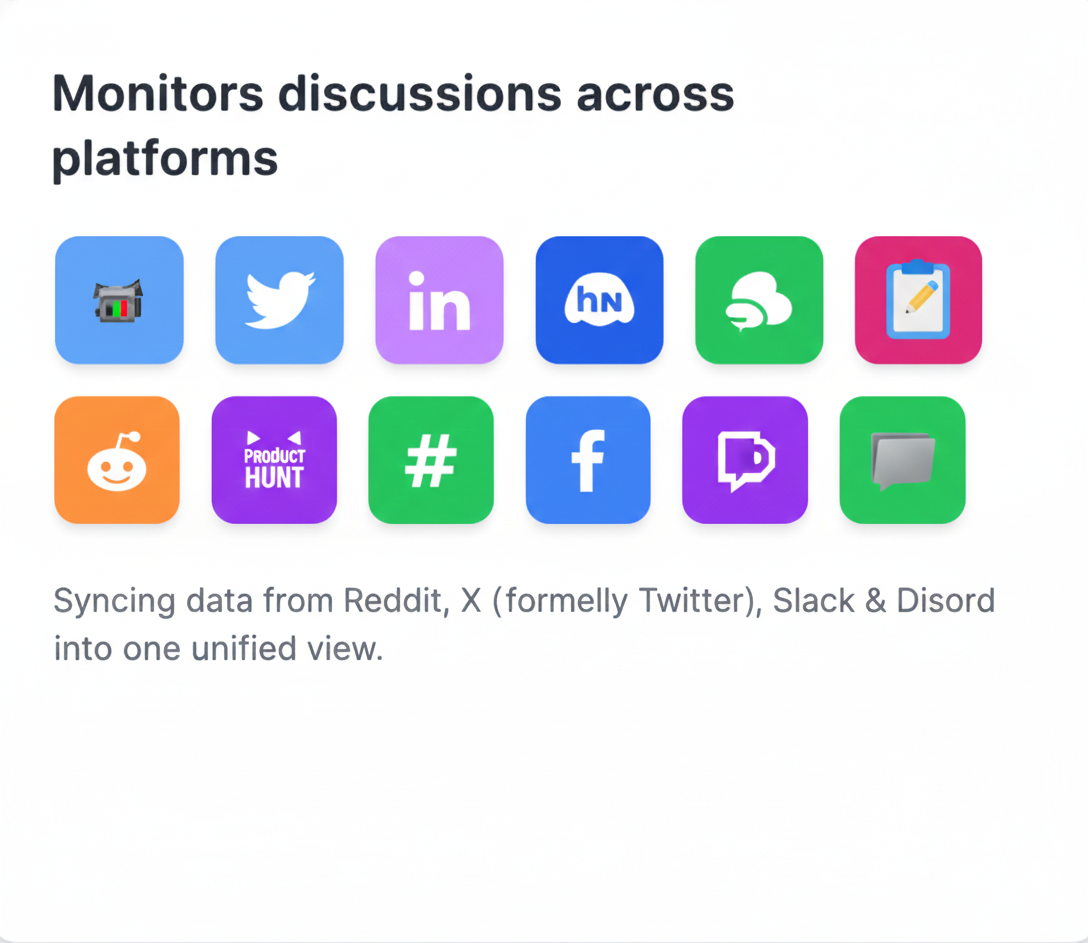
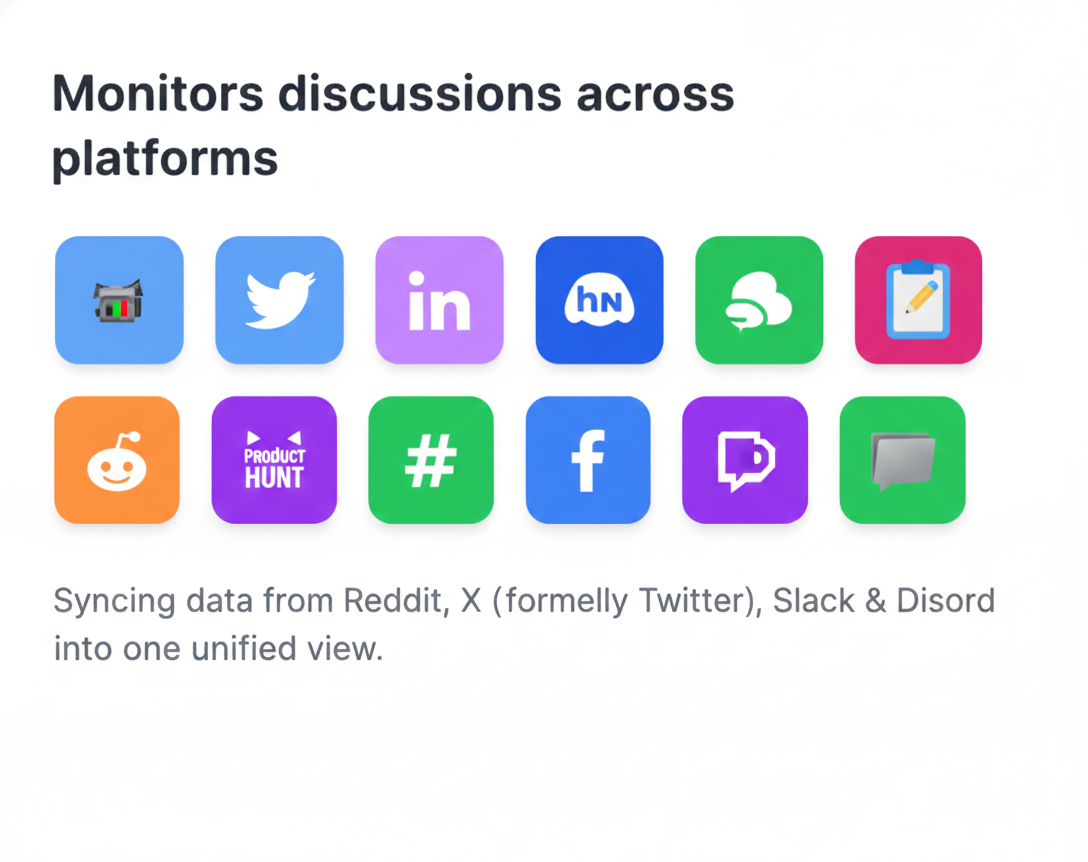
added css

diff --git a/components/features-grid-section.tsx b/components/features-grid-section.tsx
@@ -107,12 +107,12 @@ const featureBottomItems = [
           initial={{ opacity: 0, x: -20 }}
           animate={isInView ? { opacity: 1, x: 0 } : { opacity: 0, x: -20 }}
           transition={{ duration: 0.6 }}
-          className="bg-white p-6 md:p-8 rounded-2xl border border-gray-200"
+          className="bg-white p-6 md:p-8 rounded-2xl border border-gray-200 hover:border-blue-300 hover:shadow-lg transition-all"
         >
          <img
             src="/images/2nd.png"
             alt="Personalization Demo"
-            className="w-full h-auto "
+            className="w-full h-auto rounded-2xl"
           />
         </motion.div>
 
@@ -121,12 +121,12 @@ const featureBottomItems = [
           initial={{ opacity: 0, x: 20 }}
           animate={isInView ? { opacity: 1, x: 0 } : { opacity: 0, x: 20 }}
           transition={{ duration: 0.6 }}
-          className="bg-white p-6 md:p-8 rounded-2xl border border-gray-200 overflow-hidden"
+          className="bg-white p-6 md:p-8 rounded-2xl border border-gray-200 hover:border-blue-300 hover:shadow-lg transition-all overflow-hidden"
         >
        <img
             src="/images/monitors.png"
             alt="Integrations Demo"
-            className="w-full h-auto "
+            className="w-full h-auto rounded-2xl"
           />
 
        
@@ -150,7 +150,7 @@ const featureBottomItems = [
       <img
         src={item.src}
         alt={item.alt}
-        className="w-full h-auto "
+        className="w-full h-auto rounded-2xl"
       />
     </motion.div>
   ))}
